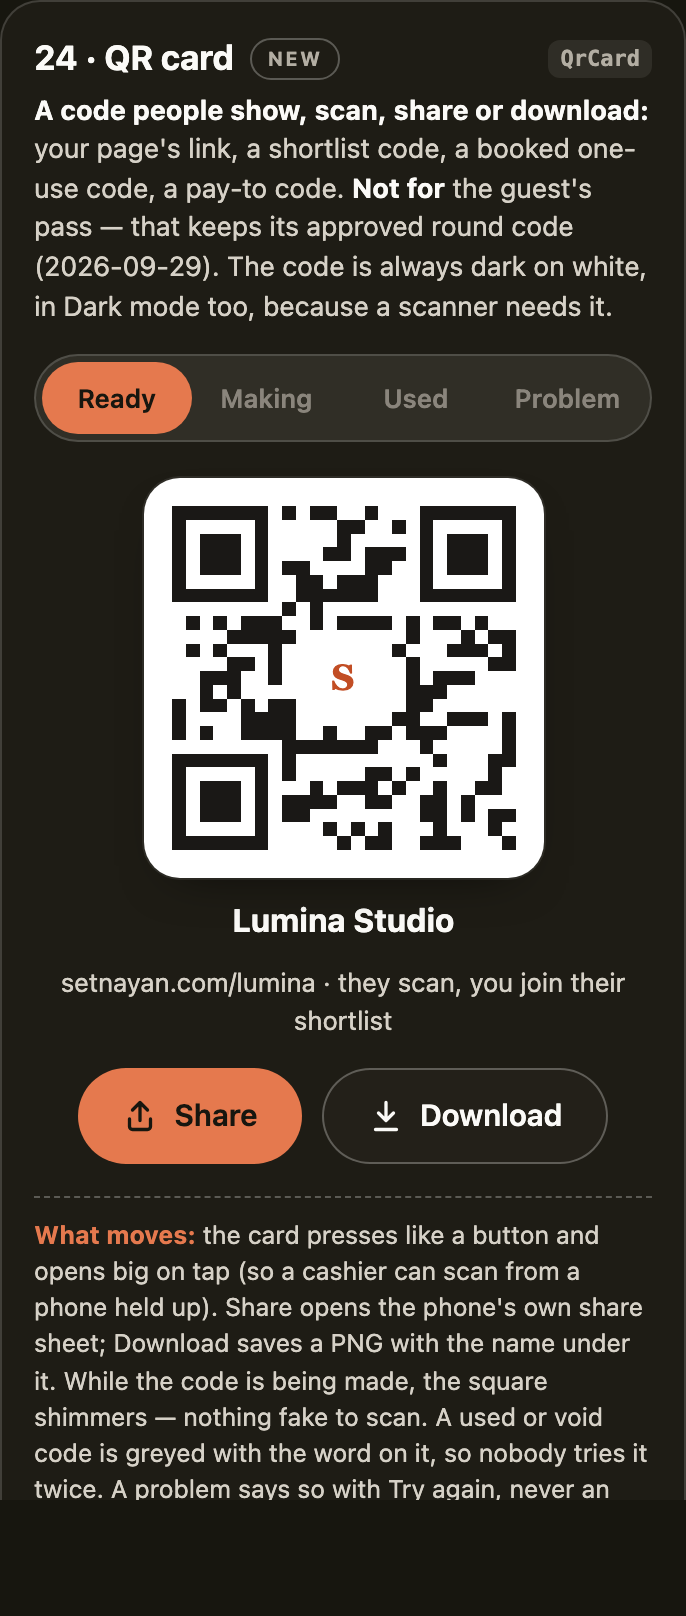
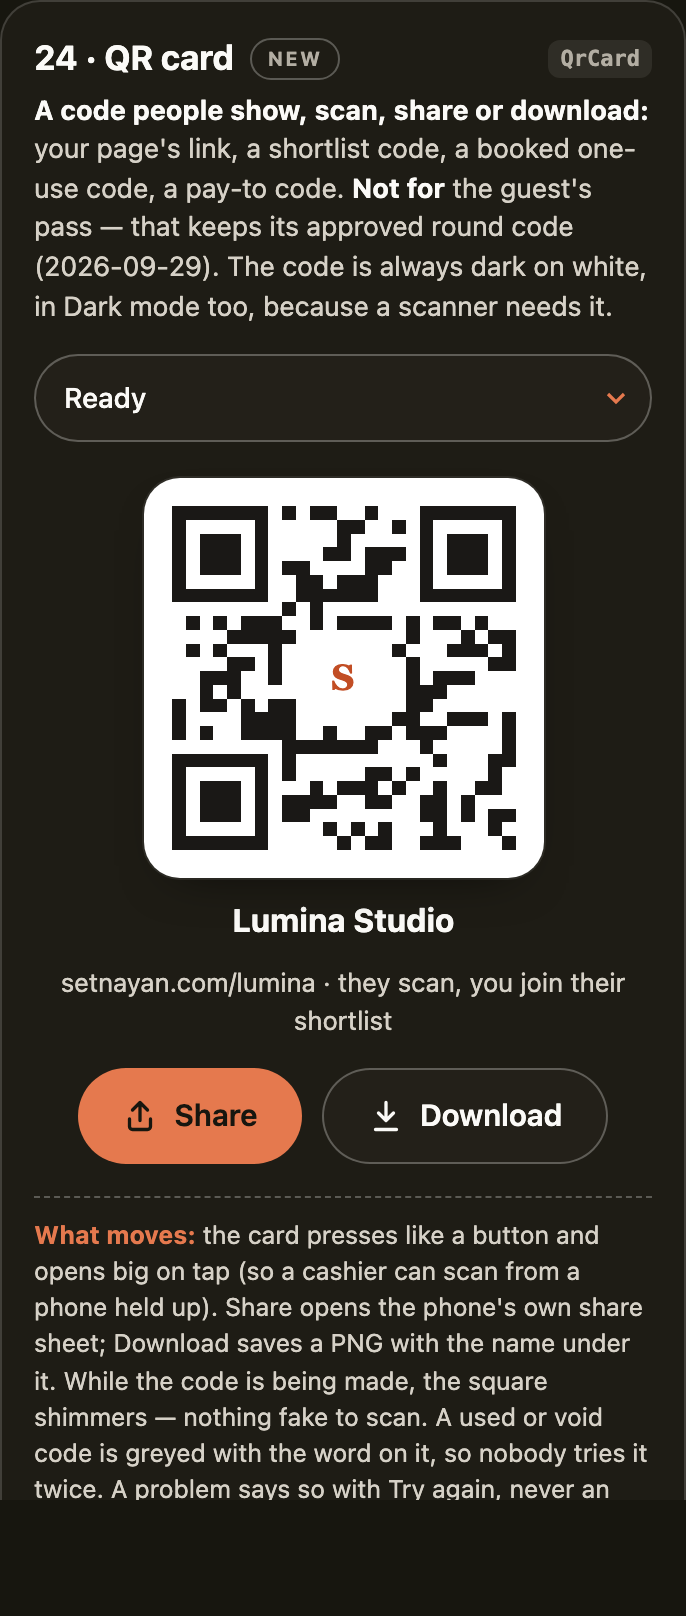
design(round 2): computer-width fixes + the owner's approve-all recorded
- every pill thumb measures its picked segment and follows a ResizeObserver (re-placed on the Phone/Computer and Light/Dark switches) — owner: 'buttons on computer might not be proper' → 'it is okay now'
- a pill with 4+ sections is a pill on a computer only; on a phone it becomes the approved Dropdown (full-row twin, kept in step)
- 44 px minimum: dropdown pills, reorder arrows, photo ✕, search ✕ hit area, calendar day cells (grid gap 0), day-row quiet buttons, Setnayan-thread buttons
- nothing stretched on a computer: Pay button keeps its width, thumb row ≤ 480, calendar ≤ 440, message box ≤ 640
- reorder arrows behind 'Arrange' on a phone (q10 ruling)
- computer-width screenshots per kind (light + dark), measured: thumbs match, no 4-segment pill on a phone, no target under 44
- INTERACTION_RULES § 9 pointer → APPROVED 2026-10-12; § 4 amended: search lives in the thumb row at ≥ 60 %
- the .md records the eleven answers (do not re-ask)

diff --git a/prototypes/control_templates_round2_2026-10-12.html b/prototypes/control_templates_round2_2026-10-12.html
@@ -48,7 +48,7 @@ section h2 code{margin-left:auto;font-size:11px;font-weight:600;color:var(--mute
 .rowx{display:flex;align-items:center;gap:10px;min-height:48px}
 .rowx .l{flex:1;font-weight:500}
 .ddw{position:relative}
-.dd{height:40px;display:inline-flex;align-items:center;gap:6px;padding:0 10px 0 14px;border-radius:999px;background:var(--surf);border:1px solid var(--line2);font-size:14px;font-weight:500;width:150px;justify-content:space-between;transition:border-color calc(160ms*var(--t))}
+.dd{height:44px;display:inline-flex;align-items:center;gap:6px;padding:0 10px 0 14px;border-radius:999px;background:var(--surf);border:1px solid var(--line2);font-size:14px;font-weight:500;width:150px;justify-content:space-between;transition:border-color calc(160ms*var(--t))}
 .dd span{white-space:nowrap;overflow:hidden;text-overflow:ellipsis}.dd svg{flex:none;color:var(--cta);transition:transform calc(180ms*var(--t)) var(--spring)}
 .ddw.open .dd svg{transform:rotate(180deg)}.ddw.open .dd{border-color:var(--cta)}
 .menu{position:absolute;right:0;top:46px;min-width:190px;background:var(--surf);border:1px solid var(--line2);border-radius:16px;box-shadow:var(--shadow);padding:6px;z-index:40;opacity:0;transform:translateY(-6px) scale(.98);transform-origin:top right;pointer-events:none;transition:opacity calc(120ms*var(--t)) var(--in),transform calc(160ms*var(--t)) var(--spring)}
@@ -103,6 +103,20 @@ body.phone .menu button{min-height:52px;font-size:16px}
 .arrow{width:16px;height:16px;fill:none;stroke:var(--cta);stroke-width:2.2;flex:none;stroke-linecap:round;stroke-linejoin:round}
 .ic44{width:44px;height:44px;border-radius:50%;display:flex;align-items:center;justify-content:center;flex:none;color:var(--cta)}
 .ic44 svg{width:20px;height:20px;fill:none;stroke:currentColor;stroke-width:2;stroke-linecap:round;stroke-linejoin:round}
+
+/* a pill with 4+ sections: the phone shows its twin dropdown (full row), the computer the pill */
+body.phone .ps:has(+ .ddw.twin){display:none}
+body.desk .ddw.twin{display:none}
+.dd.full{width:100%}
+.ddw.twin .menu{left:0;right:0;transform-origin:top center}
+
+/* a lone main button is full width on a phone only; on a computer it keeps its own width */
+.ab.wide{flex:1}
+body.desk .ab.wide{flex:0 0 auto;min-width:240px}
+body.desk .thumb{max-width:480px}
+body.desk .calv,body.desk .legend,body.desk .dayl2{max-width:440px}
+body.desk .qrc{align-self:flex-start;align-items:center;width:100%}
+body.desk .msg{max-width:640px}
 
 /* ── 23 · chat — no frame around the stream (it is read); the message box is framed (it is pressed) */
 .stream{display:flex;flex-direction:column;gap:6px;min-height:200px;padding:4px 0}
@@ -209,8 +223,8 @@ html[data-theme=dark] .map .road{stroke:#3A3730}
 body.desk .pgrid{grid-template-columns:repeat(5,1fr)}
 .pgrid .ph{position:relative;aspect-ratio:1;border-radius:12px;background-size:cover;background-position:center;overflow:hidden;touch-action:none;transition:transform calc(90ms*var(--t)) var(--spring),box-shadow calc(90ms*var(--t)),opacity calc(90ms*var(--t))}
 .pgrid .ph .cov{position:absolute;left:6px;top:6px;height:20px;padding:0 7px;border-radius:999px;background:rgba(255,255,255,.92);color:#2C2A29;font-size:10.5px;font-weight:700;display:flex;align-items:center}
-.pgrid .ph .x{position:absolute;right:5px;top:5px;width:28px;height:28px;border-radius:50%;background:rgba(44,42,41,.62);color:#fff;display:flex;align-items:center;justify-content:center;opacity:0;transition:opacity calc(60ms*var(--t))}
-.pgrid .ph .x svg{width:12px;height:12px;fill:none;stroke:currentColor;stroke-width:2.6;stroke-linecap:round}
+.pgrid .ph .x{position:absolute;right:0;top:0;width:44px;height:44px;border-radius:50%;background:rgba(44,42,41,.62);color:#fff;display:flex;align-items:center;justify-content:center;opacity:0;transition:opacity calc(60ms*var(--t))}
+.pgrid .ph .x svg{width:14px;height:14px;fill:none;stroke:currentColor;stroke-width:2.6;stroke-linecap:round}
 body.desk .pgrid .ph:hover .x,.pgrid.managing .ph .x{opacity:1}
 .pgrid .ph.lifted{transform:scale(1.06);box-shadow:0 14px 30px -10px rgba(0,0,0,.5),0 0 0 2px var(--cta);z-index:3;transition:none}
 .pgrid .ph.gapped{opacity:.35}
@@ -254,7 +268,8 @@ body.desk .pgrid .ph:hover .x,.pgrid.managing .ph .x{opacity:1}
 .srch input{flex:1;min-width:0;font-size:16px;border:0;outline:0;background:none}
 .srch input::placeholder{color:var(--mute)}
 .srch svg{width:18px;height:18px;fill:none;stroke:var(--mute);stroke-width:2;stroke-linecap:round;flex:none}
-.srch .clr{width:28px;height:28px;border-radius:50%;background:var(--pill);display:flex;align-items:center;justify-content:center;flex:none;margin-right:-6px}
+.srch .clr{width:44px;height:44px;border-radius:50%;display:flex;align-items:center;justify-content:center;flex:none;margin-right:-14px}
+.srch .clr i{width:28px;height:28px;border-radius:50%;background:var(--pill);display:flex;align-items:center;justify-content:center}
 .srch .clr svg{width:12px;height:12px;stroke:var(--ink2);stroke-width:2.6}
 .thumb .ab{flex:0 0 auto;min-width:0;padding:0 18px}
 .sres{margin-top:4px}
@@ -269,7 +284,7 @@ body.desk .pgrid .ph:hover .x,.pgrid.managing .ph .x{opacity:1}
 .calv .hd{display:flex;align-items:center;gap:6px;padding:0 2px 6px}
 .calv .hd b{flex:1;text-align:center;font-size:15px}
 .calv .hd button{width:44px;height:44px;border-radius:50%;display:flex;align-items:center;justify-content:center;color:var(--cta);font-size:20px}
-.calv .gr{display:grid;grid-template-columns:repeat(7,1fr);gap:2px;text-align:center}
+.calv .gr{display:grid;grid-template-columns:repeat(7,1fr);gap:0;text-align:center}
 .calv .gr span{font-size:11px;font-weight:700;color:var(--mute);padding:4px 0}
 .calv .gr button{position:relative;height:44px;border-radius:999px;font-size:14px;display:flex;align-items:center;justify-content:center;color:var(--ink);transition:background calc(60ms*var(--t)),color calc(60ms*var(--t))}
 .calv .gr button.past{color:var(--off)}
@@ -339,8 +354,10 @@ body.desk .pgrid .ph:hover .x,.pgrid.managing .ph .x{opacity:1}
 .ro .grip{width:32px;height:44px;display:flex;align-items:center;justify-content:center;color:var(--cta);flex:none;cursor:grab;touch-action:none}
 .ro .grip svg{width:18px;height:18px;fill:currentColor}
 .ro .nm{flex:1;font-weight:500;min-width:0}.ro .nm small{display:block;font-size:12px;color:var(--mute);font-weight:400}
-.ro .mv{width:40px;height:40px;border-radius:50%;display:flex;align-items:center;justify-content:center;color:var(--cta);flex:none}
+.ro .mv{width:44px;height:44px;border-radius:50%;display:flex;align-items:center;justify-content:center;color:var(--cta);flex:none}
 .ro .mv[disabled]{color:var(--line2)}
+/* owner 2026-10-12 (round-2 q10): on a phone the arrows sit behind "Arrange"; on a computer they show on every row */
+body.phone .rol:not(.managing) .mv{display:none}
 .ro .mv svg{width:18px;height:18px;fill:none;stroke:currentColor;stroke-width:2.2;stroke-linecap:round;stroke-linejoin:round}
 .ro.lifted{box-shadow:0 14px 30px -10px rgba(0,0,0,.45),0 0 0 2px var(--cta);border-radius:14px;border-top-color:transparent;z-index:3;background:var(--surf);transform:scale(1.03);transition:none;cursor:grabbing}
 .ro.locked .grip{color:var(--line2);cursor:not-allowed}.ro.locked .nm{color:var(--ink2)}
@@ -421,7 +438,7 @@ body.desk .pgrid .ph:hover .x,.pgrid.managing .ph .x{opacity:1}
   <div class="demo">
     <div class="ps" role="group" aria-label="Summary state" id="summode"><span class="th"></span><button aria-pressed="true" data-s="ok">Quote</button><button aria-pressed="false" data-s="paid">Part paid</button><button aria-pressed="false" data-s="load">Loading</button><button aria-pressed="false" data-s="bad">Problem</button></div>
     <div class="sum" id="sum"></div>
-    <div class="btnrow" id="sumbtn"><button class="ab main" id="paybtn" style="flex:1">Pay ₱15,000 down</button></div>
+    <div class="btnrow" id="sumbtn"><button class="ab main wide" id="paybtn">Pay ₱15,000 down</button></div>
   </div>
   <p class="moves"><b>What moves:</b> a changed total counts up or down to its new figure instead of jumping. A line that comes off is green with a minus. The payment plan is one row per instalment with its date and a badge: Paid · Due Oct 3 · Not yet. The main button names the amount it will take; pressing it opens the confirm box (kind 12), and only Pay there pays. A supplier's copy carries one extra small line, the Setnayan booking fee, since the fee is between Setnayan and the supplier (owner, 2026-10-12). Loading shimmers the rows; a problem says "Couldn't load this quote · Try again" and the button is dimmed.</p>
 </section>
@@ -471,7 +488,7 @@ body.desk .pgrid .ph:hover .x,.pgrid.managing .ph .x{opacity:1}
   <h2>30 · Search box <em>new</em><code>SearchBox</code></h2>
   <p class="use"><b>Find something in the place you are in:</b> this event's guests, your customers, a supplier's services. Its own bar, not a Form row; on a phone it lives in the thumb row and takes at least 60 % of it, with one Add beside it. <b>Not for</b> filtering by a value — that is a Dropdown.</p>
   <div class="demo">
-    <div class="thumb"><div class="srch"><svg viewBox="0 0 24 24"><circle cx="11" cy="11" r="7"/><path d="M20 20l-3.5-3.5"/></svg><input placeholder="Name, table or group" id="srch" aria-label="Search guests"><button class="clr" type="button" id="srchx" hidden aria-label="Clear"><svg viewBox="0 0 24 24"><path d="M6 6l12 12M18 6L6 18"/></svg></button></div><button class="ab main">＋ Add</button></div>
+    <div class="thumb"><div class="srch"><svg viewBox="0 0 24 24"><circle cx="11" cy="11" r="7"/><path d="M20 20l-3.5-3.5"/></svg><input placeholder="Name, table or group" id="srch" aria-label="Search guests"><button class="clr" type="button" id="srchx" hidden aria-label="Clear"><i><svg viewBox="0 0 24 24"><path d="M6 6l12 12M18 6L6 18"/></svg></i></button></div><button class="ab main">＋ Add</button></div>
     <div class="sres" id="sres"></div>
   </div>
   <p class="moves"><b>What moves:</b> the box lights terracotta when you tap in and the keyboard comes up. Results change as you type — the matching letters are terracotta in each row — under one small line that says how many. The ✕ appears as soon as there is a word and clears it with the same press as every button; tapping outside only puts the keyboard away, the word stays. No one found says so and offers Add; a problem says so with Try again. It searches the place you are in (owner's rule § 4): what is searched is said in the placeholder.</p>
@@ -523,11 +540,11 @@ body.desk .pgrid .ph:hover .x,.pgrid.managing .ph .x{opacity:1}
 <!-- ═══════════════ 34 ═══════════════ -->
 <section id="k34">
   <h2>34 · Reorder — hold to lift <em>extends kind 18</em><code>Reorder · useHoldToLift</code></h2>
-  <p class="use"><b>Put things in your own order:</b> service cards, photos, the pages of a Hub. <b>Hold</b> a row to lift it (the Maker's feel: about a third of a second, a small buzz, it grows a little with a terracotta edge), drag, let go. Arrows and the keyboard do the same for anyone who cannot drag. <b>Not for</b> moving one thing between lists.</p>
+  <p class="use"><b>Put things in your own order:</b> service cards, photos, the pages of a Hub. <b>Hold</b> a row to lift it (the Maker's feel: about a third of a second, a small buzz, it grows a little with a terracotta edge), drag, let go. Arrows (behind "Arrange" on a phone, on every row on a computer — owner 2026-10-12) and the keyboard do the same for anyone who cannot drag. <b>Not for</b> moving one thing between lists.</p>
   <div class="demo" style="gap:0">
     <div class="rol" id="rol"></div>
-    <div class="rline" id="rline">Hold a row to lift it, or use the arrows. With a keyboard: Space picks up, ↑ ↓ move, Space drops, Esc puts it back.</div>
-    <div class="btnrow" style="margin-top:8px"><button class="ab second" id="rofail">Show a failed save</button></div>
+    <div class="rline" id="rline">Hold a row to lift it; on a phone, Arrange shows the arrows. With a keyboard: Space picks up, ↑ ↓ move, Space drops, Esc puts it back.</div>
+    <div class="btnrow" style="margin-top:8px"><button class="ab second" id="roarr">Arrange</button><button class="ab second" id="rofail">Show a failed save</button></div>
   </div>
   <p class="moves"><b>What moves:</b> while you hold, the row tints to show the hold is counting; at the lift it rises with a shadow and a terracotta edge, and the rows it passes slide out of its way. On a computer the mouse lifts it at once. Let go and it settles with the family's small bounce; "Order saved" peeks from the top. A row that cannot move (the Reveal, the cover) does not lift and says why under the list. If the save fails the row slides back where it was, and a red line says "That did not save. Nothing changed — please try again." In the Maker only, the lower third slides away while a scene is held and slides back on release (owner, 2026-10-11).</p>
 </section>
@@ -545,15 +562,24 @@ function press(el){if(!el||still.matches)return;el.classList.remove('pulse-el');
 function place(ps,animate){const on=ps.querySelector('button[aria-pressed=true]');const th=ps.querySelector('.th');if(!on||!th)return;if(!animate)th.style.transition='none';th.style.setProperty('--x',on.offsetLeft+'px');th.style.setProperty('--w',on.offsetWidth+'px');if(!animate){th.offsetWidth;th.style.transition='';}}
 document.querySelectorAll('.ps').forEach(ps=>{ps.querySelectorAll('button').forEach(b=>b.addEventListener('click',()=>{ps.querySelectorAll('button').forEach(x=>x.setAttribute('aria-pressed',x===b));place(ps,true);press(ps.querySelector('.th'));}));place(ps,false);});
 addEventListener('resize',()=>document.querySelectorAll('.ps').forEach(p=>place(p,false)));
+// the thumb MEASURES the picked box and follows the track's size (the shipped PillThumb does the same with a ResizeObserver)
+const ro=new ResizeObserver(es=>es.forEach(e=>place(e.target,false)));document.querySelectorAll('.ps').forEach(p=>ro.observe(p));
+const replaceAll=()=>requestAnimationFrame(()=>document.querySelectorAll('.ps').forEach(p=>place(p,false)));
 addEventListener('load',()=>document.querySelectorAll('.ps').forEach(p=>place(p,false)));
 document.addEventListener('click',e=>{const b=e.target.closest('button,[role=button]');if(b&&!b.closest('.ps')&&!b.classList.contains('b'))press(b);},true);
+// § 9: a pill selector holds 2–3 sections on a phone (4 on a computer). Every pill with 4+ segments gets a twin Dropdown; the phone shows the dropdown, the computer the pill. Both stay in step.
+document.querySelectorAll('.ps').forEach(ps=>{const bs=[...ps.querySelectorAll('button')];if(bs.length<4||ps.closest('.slow'))return;const w=document.createElement('div');w.className='ddw twin';const name=ps.getAttribute('aria-label')||'Choose';
+  w.innerHTML='<button class="dd full" aria-haspopup="listbox"><span></span><svg width="14" height="14" viewBox="0 0 14 14"><path d="M3 5l4 4 4-4" fill="none" stroke="currentColor" stroke-width="1.6"/></svg></button><div class="menu" role="listbox" data-title="'+name+'">'+bs.map((b,i)=>'<button role="option" data-i="'+i+'" aria-checked="false">'+b.textContent+'<i>✓</i></button>').join('')+'</div>';
+  ps.after(w);const lab=w.querySelector('.dd span');const sync=()=>{const on=bs.findIndex(b=>b.getAttribute('aria-pressed')==='true');lab.textContent=bs[on>=0?on:0].textContent;w.querySelectorAll('[role=option]').forEach((o,i)=>o.setAttribute('aria-checked',i===on));};
+  w.querySelectorAll('[role=option]').forEach(o=>o.addEventListener('click',e=>{e.stopPropagation();bs[+o.dataset.i].click();sync();w.classList.remove('open');document.body.classList.remove('sheet');}));
+  bs.forEach(b=>b.addEventListener('click',sync));sync();});
 function closeAll(except){document.querySelectorAll('.ddw.open').forEach(d=>{if(d!==except)d.classList.remove('open')});document.body.classList.toggle('sheet',!!except);}
 document.querySelectorAll('.ddw .dd').forEach(b=>b.addEventListener('click',e=>{e.stopPropagation();const w=b.closest('.ddw');const open=!w.classList.contains('open');closeAll(open?w:null);w.classList.toggle('open',open);}));
 addEventListener('click',()=>closeAll(null));
 const VW={phone:'a phone, 375 px',desk:'a computer'};
-function setView(v){document.body.classList.toggle('phone',v==='phone');document.body.classList.toggle('desk',v==='desk');document.getElementById('vw').textContent=VW[v];document.querySelectorAll('#view button').forEach(x=>x.setAttribute('aria-pressed',x.dataset.v===v));place(document.getElementById('view'),false);}
+function setView(v){document.body.classList.toggle('phone',v==='phone');document.body.classList.toggle('desk',v==='desk');document.getElementById('vw').textContent=VW[v];document.querySelectorAll('#view button').forEach(x=>x.setAttribute('aria-pressed',x.dataset.v===v));replaceAll();}
 document.querySelectorAll('#view button').forEach(b=>b.addEventListener('click',()=>{closeAll(null);setView(b.dataset.v);}));
-function setLook(l){document.documentElement.dataset.theme=l;document.getElementById('lk').textContent=l==='dark'?'Dark':'Light';document.querySelectorAll('#look button').forEach(x=>x.setAttribute('aria-pressed',x.dataset.l===l));place(document.getElementById('look'),false);}
+function setLook(l){document.documentElement.dataset.theme=l;document.getElementById('lk').textContent=l==='dark'?'Dark':'Light';document.querySelectorAll('#look button').forEach(x=>x.setAttribute('aria-pressed',x.dataset.l===l));replaceAll();}
 document.querySelectorAll('#look button').forEach(b=>b.addEventListener('click',()=>setLook(b.dataset.l)));
 (()=>{const q=new URLSearchParams(location.search);if(q.get('view'))setView(q.get('view'));if(q.get('theme'))setLook(q.get('theme'));else if(matchMedia('(prefers-color-scheme:dark)').matches)setLook('dark');})();
 // toast + confirm (kind 12)
@@ -577,7 +603,7 @@ const ARROW='<svg class="arrow" viewBox="0 0 16 16"><path d="M6 3l5 5-5 5"/></sv
       b:[['day','Today'],['you','Ana &amp; Miguel asked you for a quote. Reply within 2 days to keep your reply time.','10:12 AM'],['btn','Reply now'],['day','Yesterday'],['you','Your booking fee for the Cruz wedding (₱2,500) is due Oct 3.','9:00 AM'],['btn','Pay ₱2,500']]}};
   function bub(x){if(x[0]==='day')return '<div class="dayl">'+x[1]+'</div>';if(x[0]==='typing')return '<div class="typing" aria-label="They are typing"><i></i><i></i><i></i></div>';
     if(x[0]==='card')return '<button class="card-in"><span class="tx"><b>'+x[1]+'</b><span>'+x[2]+'</span></span>'+ARROW+'</button>';
-    if(x[0]==='btn')return '<button class="ab main" style="align-self:flex-start;height:40px;min-width:0;padding:0 16px;font-size:14px;margin:-2px 0 6px">'+x[1]+'</button>';
+    if(x[0]==='btn')return '<button class="ab main" style="align-self:flex-start;height:44px;min-width:0;padding:0 16px;font-size:14px;margin:-2px 0 6px">'+x[1]+'</button>';
     if(x[0]==='me')return '<div class="bub me'+(x[3]==='fail'?' fail':'')+'" '+(x[3]==='fail'?'role="button" tabindex="0"':'')+'>'+x[1]+'<small>'+x[2]+'</small></div>';
     return x[4]?'<div class="bubrow"><span class="av">'+x[4]+'</span><div class="bub you"><span class="who">'+x[3]+'</span>'+x[1]+'<small>'+x[2]+'</small></div></div>':'<div class="bub you">'+x[1]+'<small>'+x[2]+'</small></div>';}
   function draw(){const c=C[kind];chd.innerHTML=c.h;box.hidden=kind==='sn';mi.placeholder=c.ph;
@@ -718,8 +744,8 @@ const HOLD_MS=350,SLOP=8;
   const MN=['January','February','March','April','May','June','July','August','September','October','November','December'];
   const D={'2026-10-3':[['bk','Reyes debut','Tagaytay · 2:00 PM · Full-day','Booked','ok']],'2026-10-4':[['bk','Cruz wedding','Makati · 1:00 PM · Full-day','Booked','ok']],'2026-10-10':[['bk','Bautista christening','QC · 10:00 AM','Booked','ok']],'2026-10-11':[['hd','Hold · Bautista','asked for Oct 11 if the Cruz date moves','Holding','wait']],'2026-10-14':'blocked','2026-10-15':'blocked','2026-10-24':[['hd','Hold · Ocampo debut','quote sent · answer by Oct 20','Holding','wait']],'2026-10-25':[['hd','Hold · Villanueva','asked today','Holding','wait'],['hd','Hold · Lim','asked yesterday','Holding','wait']],'2026-10-31':[['ev','Maria & Jose · your wedding','Tagaytay Highlands · 3:00 PM','Your event','cta']]};
   let view=new Date(2026,9,1),a=new Date(2026,9,4);const key=d=>d.getFullYear()+'-'+(d.getMonth()+1)+'-'+d.getDate();const long=d=>MN[d.getMonth()]+' '+d.getDate()+', '+d.getFullYear();
-  function say2(){const it=D[key(a)];let h='<b>'+long(a)+'</b>';if(it==='blocked')h+='<div class="dayrow"><span class="tx"><b>Blocked</b><span>Family trip · Oct 14–15 · couples cannot ask for this day</span></span><button class="ab quiet" style="height:40px">Unblock</button></div>';
-    else if(!it)h+='<div class="dayrow"><span class="tx"><b>Free</b><span>Nothing on this day yet</span></span><button class="ab quiet" style="height:40px">Block it</button></div>';
+  function say2(){const it=D[key(a)];let h='<b>'+long(a)+'</b>';if(it==='blocked')h+='<div class="dayrow"><span class="tx"><b>Blocked</b><span>Family trip · Oct 14–15 · couples cannot ask for this day</span></span><button class="ab quiet">Unblock</button></div>';
+    else if(!it)h+='<div class="dayrow"><span class="tx"><b>Free</b><span>Nothing on this day yet</span></span><button class="ab quiet">Block it</button></div>';
     else h+=it.map(x=>'<button class="dayrow"><span class="tx"><b>'+x[1]+'</b><span>'+x[2]+'</span></span><span class="badge '+x[4]+'">'+x[3]+'</span>'+ARROW+'</button>').join('')+(it.length>=2?'<div class="sline">2 of 2 holds for this day — it is full.</div>':'');dy.innerHTML=h;}
   function draw(){mh.textContent=MN[view.getMonth()]+' '+view.getFullYear();g.innerHTML='';'SMTWTFS'.split('').forEach(d=>{const s=document.createElement('span');s.textContent=d;g.appendChild(s);});
     const first=new Date(view.getFullYear(),view.getMonth(),1).getDay(),days=new Date(view.getFullYear(),view.getMonth()+1,0).getDate();for(let i=0;i<first;i++)g.appendChild(document.createElement('i'));
@@ -772,6 +798,7 @@ const HOLD_MS=350,SLOP=8;
     if(e.key===' '||e.key==='Enter'){e.preventDefault();if(picked){const prev=picked.prev;picked=null;row.classList.remove('lifted');save(prev);}else{picked={k:row.dataset.k,prev:order.map(x=>x)};row.classList.add('lifted');line.className='rline';line.textContent='Picked up. ↑ ↓ to move, Space to drop, Esc to put it back.';}}
     if(picked&&(e.key==='ArrowUp'||e.key==='ArrowDown')){e.preventDefault();const j=i+(e.key==='ArrowUp'?-1:1);if(j<0||j>=order.length)return;[order[i],order[j]]=[order[j],order[i]];draw(row.dataset.k);const nr=[...rol.querySelectorAll('.ro')].find(r=>r.dataset.k===picked.k);nr.classList.add('lifted');nr.focus();}
     if(picked&&e.key==='Escape'){order=picked.prev;picked=null;draw();line.className='rline';line.textContent='Put back where it was.';[...rol.querySelectorAll('.ro')].find(r=>r.dataset.k===row.dataset.k).focus();}});
+  document.getElementById('roarr').addEventListener('click',e=>{const on=rol.classList.toggle('managing');e.currentTarget.textContent=on?'Done':'Arrange';});
   document.getElementById('rofail').addEventListener('click',()=>{failNext=true;line.className='rline';line.textContent='The next move will fail to save — try one.';});
   draw();})();
 </script>

diff --git a/INTERACTION_RULES.md b/INTERACTION_RULES.md
@@ -20,7 +20,8 @@ Owner, verbatim (2026-09-30): *"how we ask questions for them to fill up, how we
 - No "go edit it elsewhere ↗": the control is where you are.
 
 ## 4 · Searching
-- The top bar searches the place you're in (this event's guests on the Guest list, the Maker's scenes in the Maker, everything on Home). The page itself only has "Add".
+- Search searches the place you're in (this event's guests on the Guest list, the Maker's scenes in the Maker, everything on Home); the placeholder says what is searched. The page itself only has "Add".
+- **Where it lives (owner 2026-10-12, approving round 2's question 11):** on a phone the search box is in the **thumb row** (the lower third, § 8) and takes **at least 60 %** of it, with the one Add button beside it — not in the top bar. On a computer it sits in the top bar. The box is the Search box kind (round-2 gallery § 30): a pill with a ✕ that clears.
 
 ## 5 · Doing
 - Tap what you see to change it (type in place). Changes show instantly; saving happens quietly behind.
@@ -104,6 +105,6 @@ Owner, verbatim, after reviewing and correcting every kind live on the local cop
 **The approved reference is `prototypes/control_templates_2026-10-08.html` in this corpus** (a copy of the local `review/templates.html`; open it in a browser — it is interactive, with a Phone | Computer switch and the 0.7 s speed). Every line of § 9 above marked "awaiting his look" / "not approved" / "drawn, awaiting" is now APPROVED as that file draws it. **The 22 kinds:** 1 Pill selector · 2 Dropdown · 3 Switch · 4 Page card · 5 Style card · 6 Form row · 7 ⓘ explanation · 8 Calendar · 9 Action button · 10 Field (= a Form row) · 11 Ticks, chips, badges · 12 Messages (toast from the top, status line, confirm box) · 13 Timeline row (Schedule, Love Story) with the time/date ticker and up-to-3 media · 14 Top bar (a pill) and ⋯ menu · 15 List row and card · 16 Empty / loading / problem · 17 Counter and slider · 18 Reorder · 19 Fold · 20 Pro mark ◆ · 21 Upload and the five colour circles · 22 Progress and "Show more".
 **Controller's readings of what that approval settles (each was drawn in the file he approved; said back to him the same hour):** the main action button is terracotta on every Setnayan-look surface (replacing the dashboards' gold `.button-primary` and the hand-made ink buttons — the largest single change of the sweep); the top bar is a pill; a row with more than three sections is NOT settled by the gallery (still his call: scrolling pill strip vs one dropdown).
 **How it gets built:** each kind becomes ONE shared component with a watch that fails when a page hand-makes its own; areas move onto it one at a time (Maker/Studio → couple → supplier → sign-up/public → admin); the guests' customised Event Hub (`app/[slug]`) stays exempt. Kinds with no drawing yet: chat bubbles and the message box, the map pin field, sign-in code boxes, star rating, the sign-up step rail, the QR card, admin tables.
-- **Round 2 — twelve more kinds drawn, awaiting his look (2026-10-12, owner-ordered as item 12 of "APPROVE ALL: the Suppliers + supplier-dashboard look calls"):** `prototypes/control_templates_round2_2026-10-12.html` (Light + Dark, phone + computer, every state) with the rules and eleven owner questions in `CONTROL_TEMPLATES_ROUND2_2026-10-12_fable.md` and phone screenshots in `prototypes/control_templates_round2_2026-10-12/`. The kinds: 23 Chat (`ChatThread`) · 24 QR card · 25 Map pin field · 26 Price summary · 27 Notification row · 28 Photo grid · 29 Star rating (display) · 30 Search box · 31 Calendar days with several states (extends 8) · 32 Charts (`Bars · MixBar · Fill`) · 33 Tier marks (extends 20: Verified ✓ green · Solo ● · Pro ◆ · Enterprise ◈ gold) · 34 Reorder, hold to lift (extends 18; one `useHoldToLift` with the Maker's scene drag). The 2026-10-08 working file's §§ 23–27 are superseded by this round. NOT approved until he says so.
+- **Round 2 — twelve more kinds drawn, awaiting his look (2026-10-12, owner-ordered as item 12 of "APPROVE ALL: the Suppliers + supplier-dashboard look calls"):** `prototypes/control_templates_round2_2026-10-12.html` (Light + Dark, phone + computer, every state) with the rules and eleven owner questions in `CONTROL_TEMPLATES_ROUND2_2026-10-12_fable.md` and phone screenshots in `prototypes/control_templates_round2_2026-10-12/`. The kinds: 23 Chat (`ChatThread`) · 24 QR card · 25 Map pin field · 26 Price summary · 27 Notification row · 28 Photo grid · 29 Star rating (display) · 30 Search box · 31 Calendar days with several states (extends 8) · 32 Charts (`Bars · MixBar · Fill`) · 33 Tier marks (extends 20: Verified ✓ green · Solo ● · Pro ◆ · Enterprise ◈ gold) · 34 Reorder, hold to lift (extends 18; one `useHoldToLift` with the Maker's scene drag). The 2026-10-08 working file's §§ 23–27 are superseded by this round. **APPROVED 2026-10-12 (owner: approve all)** — the eleven recommendations in the `.md` are now rulings: phone chat Enter = new line · the Setnayan notices thread in the chat list AND behind the bell · QR: Share main, Download second · blocked day = hatched square · stars gold · one gold family for the three plan marks, Solo shown publicly · Enterprise = ◆ with a window · mix bar terracotta · blue-grey · grey · photos 30 on Free/Solo, more on Pro (the exact cap read from `vendor-tier-caps.ts`) · reorder arrows behind "Arrange" on a phone, shown on a computer · search lives in the thumb row (§ 4 amended). Owner on the computer width, after the thumb fix: *"it is okay now"*. A pill with 4+ sections is a pill on a computer only; on a phone it is the Dropdown (the gallery does this itself).
 - **Our colour is ONE setting (owner, 2026-10-08, right after approving the gallery):** *"if we change our color to blue, it will be easy to change the button colors"*. ⇒ every template takes its "on / picked / tappable" colour from ONE named token by its JOB (the app's accent), never from a colour written on the page. Changing the accent to another colour must be a one-line change that reaches every pill, switch, main button, tick, ring, arrow, toast and slider — with the words on it still readable (the label ink is worked out from the accent, not fixed at white). Measured today, so nobody over-promises: this is NOT yet true — terracotta is written by hand in hundreds of places (≈139 hand-made terracotta fills, ≈150 ink, ≈100 gold, 60 inline `style` backgrounds on the couple/supplier/admin pages), and the token names are inverted (`bg-mulberry` paints terracotta, `bg-terracotta-*` paints gold). It becomes true area by area as each moves onto the templates. Builder rule from now: a template never contains a hex or a colour-named class for the accent; a watch fails on one.
 - **Late-evening rulings on the gallery's later sections (owner, 2026-10-08; drawn in `prototypes/control_templates_2026-10-08_working.html`, § 13–28 — NOT covered by the approval above until he says so):** *"15 service card? show the full data of how the card shows with the buttons"* → a full Service card: picture + kind, name, who offers it (+ Verified, + a Pro pill), the deciding facts (place · size · hours · whether the date is open), what is included, the price and what it is for, then two buttons (Message · Add to my event). *"18 drag please"* → Reorder is a real drag by the dots (the others slide aside), with the arrows kept for anyone who cannot drag. *"21 when we pick a color. what is the color picker look like?"* → the colour picker: Your palette · Goes with your palette · Any colour (two sliders), a sample button showing how words read, and a plain refusal line when words would be unreadable. *"23 this is not just what the chat for event to vendor. for user to user. user to samahan."* → ONE chat for three conversations (a supplier about an event · a person · a Samahan group, where each message names its writer). *"25 on 26 there is a pill with a word NEW. is it possible to have a pill with pro with that size?"* → the Pro mark is a small gold "◆ Pro" pill the size of the NEW tag. **Icons arrive:** *"we want icons to animate also like the music icon … Home so it is a door, a wall and a roof that assembled to the center and merged to a home icon. guests is 2 people from both sides entering then becomes a guest icon and so on. each has their mini story"* · *"all icons if possible has that animation on how it became that icon"* · *"the bottom bar is an old icon by the way"* → the bottom bar is drawn with the five line icons he picked on 2026-10-07 (House · BookUser · Store · AppWindow · Grip — `EVENT_MENU_ICONS` / `PILLAR_TAB_ICON` in `lib/customer-menu.ts`), each with its own small arrival story when landed on; every OTHER icon draws itself line by line. Controller's limits, told to him: once per arrival or pick, never looping, never on every row of a long list, nothing under reduced motion. **Moments:** *"they can always edit it if manual, but if added via their memories, cannot edit."* → a moment the couple typed is always editable; one that came from their memories (their other events / logged for them) is not.

diff --git a/CONTROL_TEMPLATES_ROUND2_2026-10-12_fable.md b/CONTROL_TEMPLATES_ROUND2_2026-10-12_fable.md
@@ -34,6 +34,8 @@ What is drawn is read against: INTERACTION_RULES § 9 (terracotta = on / picked 
 
 ## Questions for the owner (one word each) — with my recommendation
 
+**All eleven ANSWERED 2026-10-12 — owner: "approve all" (every recommendation below is now the ruling; DECISION_LOG 812da1d). Do not re-ask.** Same day, on the first computer-width look: *"buttons on computer might not be proper"* (the pill thumbs kept their phone width — fixed: every thumb measures its picked segment and follows a ResizeObserver, as the shipped `PillThumb` does; 4+-segment pills become the Dropdown on a phone; 44 px targets throughout; a lone main button is full width on a phone only) → *"it is okay now"*.
+
 | # | Question | Recommend | Why |
 |---|---|---|---|
 | 1 | **Chat box on a phone — does Enter send, or make a new line?** (A) new line, the round button sends · (B) Enter sends | **A** | Filipino messages are often several lines; every phone chat app does A. On a computer Enter sends (drawn). |
